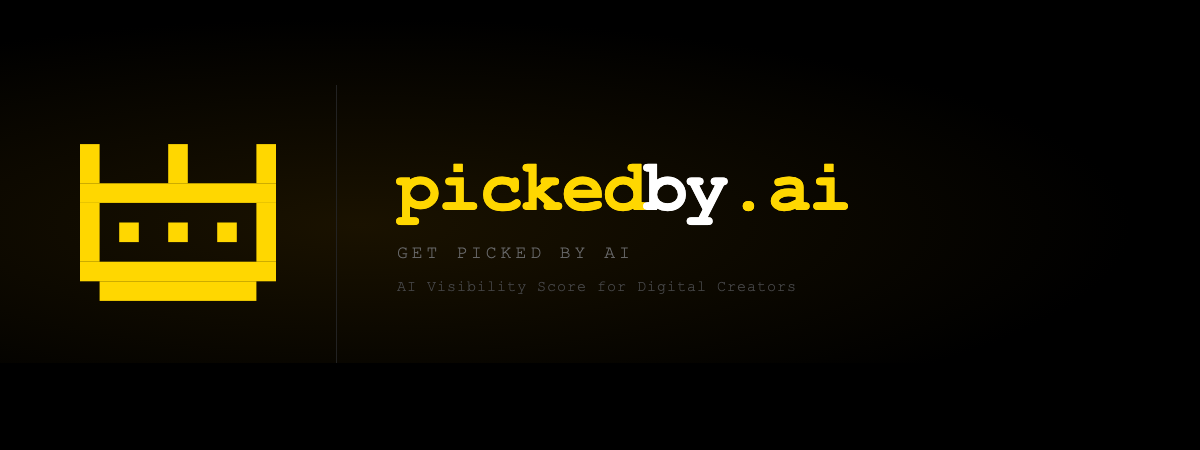
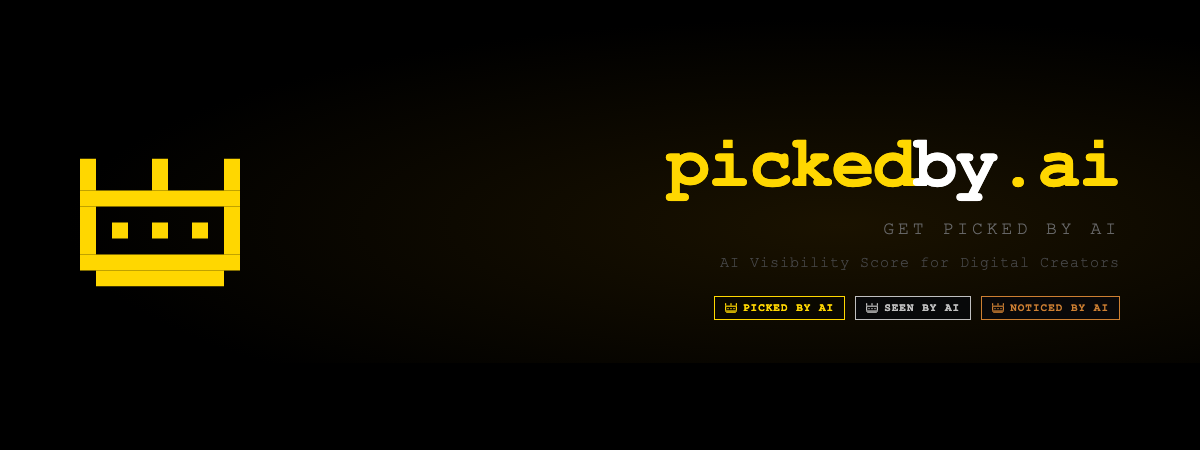
WP [04-06 03:52] main —  2 files changed, 52 insertions(+), 18 deletions(-)

diff --git a/landing/og-image.html b/landing/og-image.html
@@ -7,13 +7,12 @@
 body { width: 1200px; height: 450px; overflow: hidden; background: #000; }
 .container {
   width: 1200px; height: 450px;
-  background: radial-gradient(ellipse at 30% 50%, #1a1200 0%, #000 65%);
-  display: flex; align-items: center;
+  background: radial-gradient(ellipse at 70% 50%, #1a1200 0%, #000 65%);
+  display: flex; align-items: center; justify-content: flex-end;
   padding: 0 80px; gap: 60px;
+  position: relative;
 }
-.crown { flex-shrink: 0; }
-.divider { width: 1px; height: 280px; background: #222; flex-shrink: 0; }
-.text { display: flex; flex-direction: column; gap: 16px; }
+.text { display: flex; flex-direction: column; gap: 16px; align-items: flex-end; }
 .wordmark {
   font-family: 'Courier New', monospace;
   font-size: 72px;
@@ -21,6 +20,7 @@ body { width: 1200px; height: 450px; overflow: hidden; background: #000; }
   color: #FFD700;
   letter-spacing: -2px;
   line-height: 1;
+  text-align: right;
 }
 .wordmark span { color: #fff; }
 .tagline {
@@ -29,37 +29,71 @@ body { width: 1200px; height: 450px; overflow: hidden; background: #000; }
   color: #666;
   letter-spacing: 4px;
   text-transform: uppercase;
+  text-align: right;
 }
 .sub {
   font-family: 'Courier New', monospace;
   font-size: 15px;
   color: #444;
   letter-spacing: 1px;
+  text-align: right;
+}
+/* badges row */
+.badges { display: flex; gap: 10px; margin-top: 8px; }
+.badge-mini {
+  padding: 5px 10px;
+  font-family: 'Courier New', monospace;
+  font-size: 11px;
+  font-weight: bold;
+  letter-spacing: 1px;
+  display: flex; align-items: center; gap: 6px;
+}
+.badge-mini svg { flex-shrink: 0; }
+.badge-gold  { border: 1px solid #FFD700; color: #FFD700; background: #0a0800; }
+.badge-silver{ border: 1px solid #C0C0C0; color: #C0C0C0; background: #08090a; }
+.badge-bronze{ border: 1px solid #CD7F32; color: #CD7F32; background: #090809; }
+/* crown left */
+.crown-left {
+  position: absolute; left: 80px; top: 50%;
+  transform: translateY(-50%);
 }
 </style>
 </head>
 <body>
 <div class="container">
-  <div class="crown">
-    <svg width="196" height="157" viewBox="0 0 20 16" fill="#FFD700" xmlns="http://www.w3.org/2000/svg">
-      <rect x="0" y="0" width="2" height="4"/>
-      <rect x="9" y="0" width="2" height="4"/>
-      <rect x="18" y="0" width="2" height="4"/>
+  <!-- Crown left -->
+  <div class="crown-left">
+    <svg width="160" height="128" viewBox="0 0 20 16" fill="#FFD700" xmlns="http://www.w3.org/2000/svg">
+      <rect x="0" y="0" width="2" height="4"/><rect x="9" y="0" width="2" height="4"/><rect x="18" y="0" width="2" height="4"/>
       <rect x="0" y="4" width="20" height="2"/>
-      <rect x="0" y="6" width="2" height="6"/>
-      <rect x="18" y="6" width="2" height="6"/>
-      <rect x="4" y="8" width="2" height="2"/>
-      <rect x="9" y="8" width="2" height="2"/>
-      <rect x="14" y="8" width="2" height="2"/>
-      <rect x="0" y="12" width="20" height="2"/>
-      <rect x="2" y="14" width="16" height="2"/>
+      <rect x="0" y="6" width="2" height="6"/><rect x="18" y="6" width="2" height="6"/>
+      <rect x="4" y="8" width="2" height="2"/><rect x="9" y="8" width="2" height="2"/><rect x="14" y="8" width="2" height="2"/>
+      <rect x="0" y="12" width="20" height="2"/><rect x="2" y="14" width="16" height="2"/>
     </svg>
   </div>
-  <div class="divider"></div>
+
+  <!-- Right-aligned text -->
   <div class="text">
     <div class="wordmark">picked<span>by</span>.ai</div>
     <div class="tagline">Get Picked by AI</div>
     <div class="sub">AI Visibility Score for Digital Creators</div>
+    <div class="badges">
+      <!-- Gold -->
+      <div class="badge-mini badge-gold">
+        <svg width="12" height="10" viewBox="0 0 20 16" fill="#FFD700"><rect x="0" y="0" width="2" height="4"/><rect x="9" y="0" width="2" height="4"/><rect x="18" y="0" width="2" height="4"/><rect x="0" y="4" width="20" height="2"/><rect x="0" y="6" width="2" height="6"/><rect x="18" y="6" width="2" height="6"/><rect x="4" y="8" width="2" height="2"/><rect x="9" y="8" width="2" height="2"/><rect x="14" y="8" width="2" height="2"/><rect x="0" y="12" width="20" height="2"/><rect x="2" y="14" width="16" height="2"/></svg>
+        PICKED BY AI
+      </div>
+      <!-- Silver -->
+      <div class="badge-mini badge-silver">
+        <svg width="12" height="10" viewBox="0 0 20 16" fill="#C0C0C0"><rect x="0" y="0" width="2" height="4"/><rect x="9" y="0" width="2" height="4"/><rect x="18" y="0" width="2" height="4"/><rect x="0" y="4" width="20" height="2"/><rect x="0" y="6" width="2" height="6"/><rect x="18" y="6" width="2" height="6"/><rect x="4" y="8" width="2" height="2"/><rect x="9" y="8" width="2" height="2"/><rect x="14" y="8" width="2" height="2"/><rect x="0" y="12" width="20" height="2"/><rect x="2" y="14" width="16" height="2"/></svg>
+        SEEN BY AI
+      </div>
+      <!-- Bronze -->
+      <div class="badge-mini badge-bronze">
+        <svg width="12" height="10" viewBox="0 0 20 16" fill="#CD7F32"><rect x="0" y="0" width="2" height="4"/><rect x="9" y="0" width="2" height="4"/><rect x="18" y="0" width="2" height="4"/><rect x="0" y="4" width="20" height="2"/><rect x="0" y="6" width="2" height="6"/><rect x="18" y="6" width="2" height="6"/><rect x="4" y="8" width="2" height="2"/><rect x="9" y="8" width="2" height="2"/><rect x="14" y="8" width="2" height="2"/><rect x="0" y="12" width="20" height="2"/><rect x="2" y="14" width="16" height="2"/></svg>
+        NOTICED BY AI
+      </div>
+    </div>
   </div>
 </div>
 </body>
